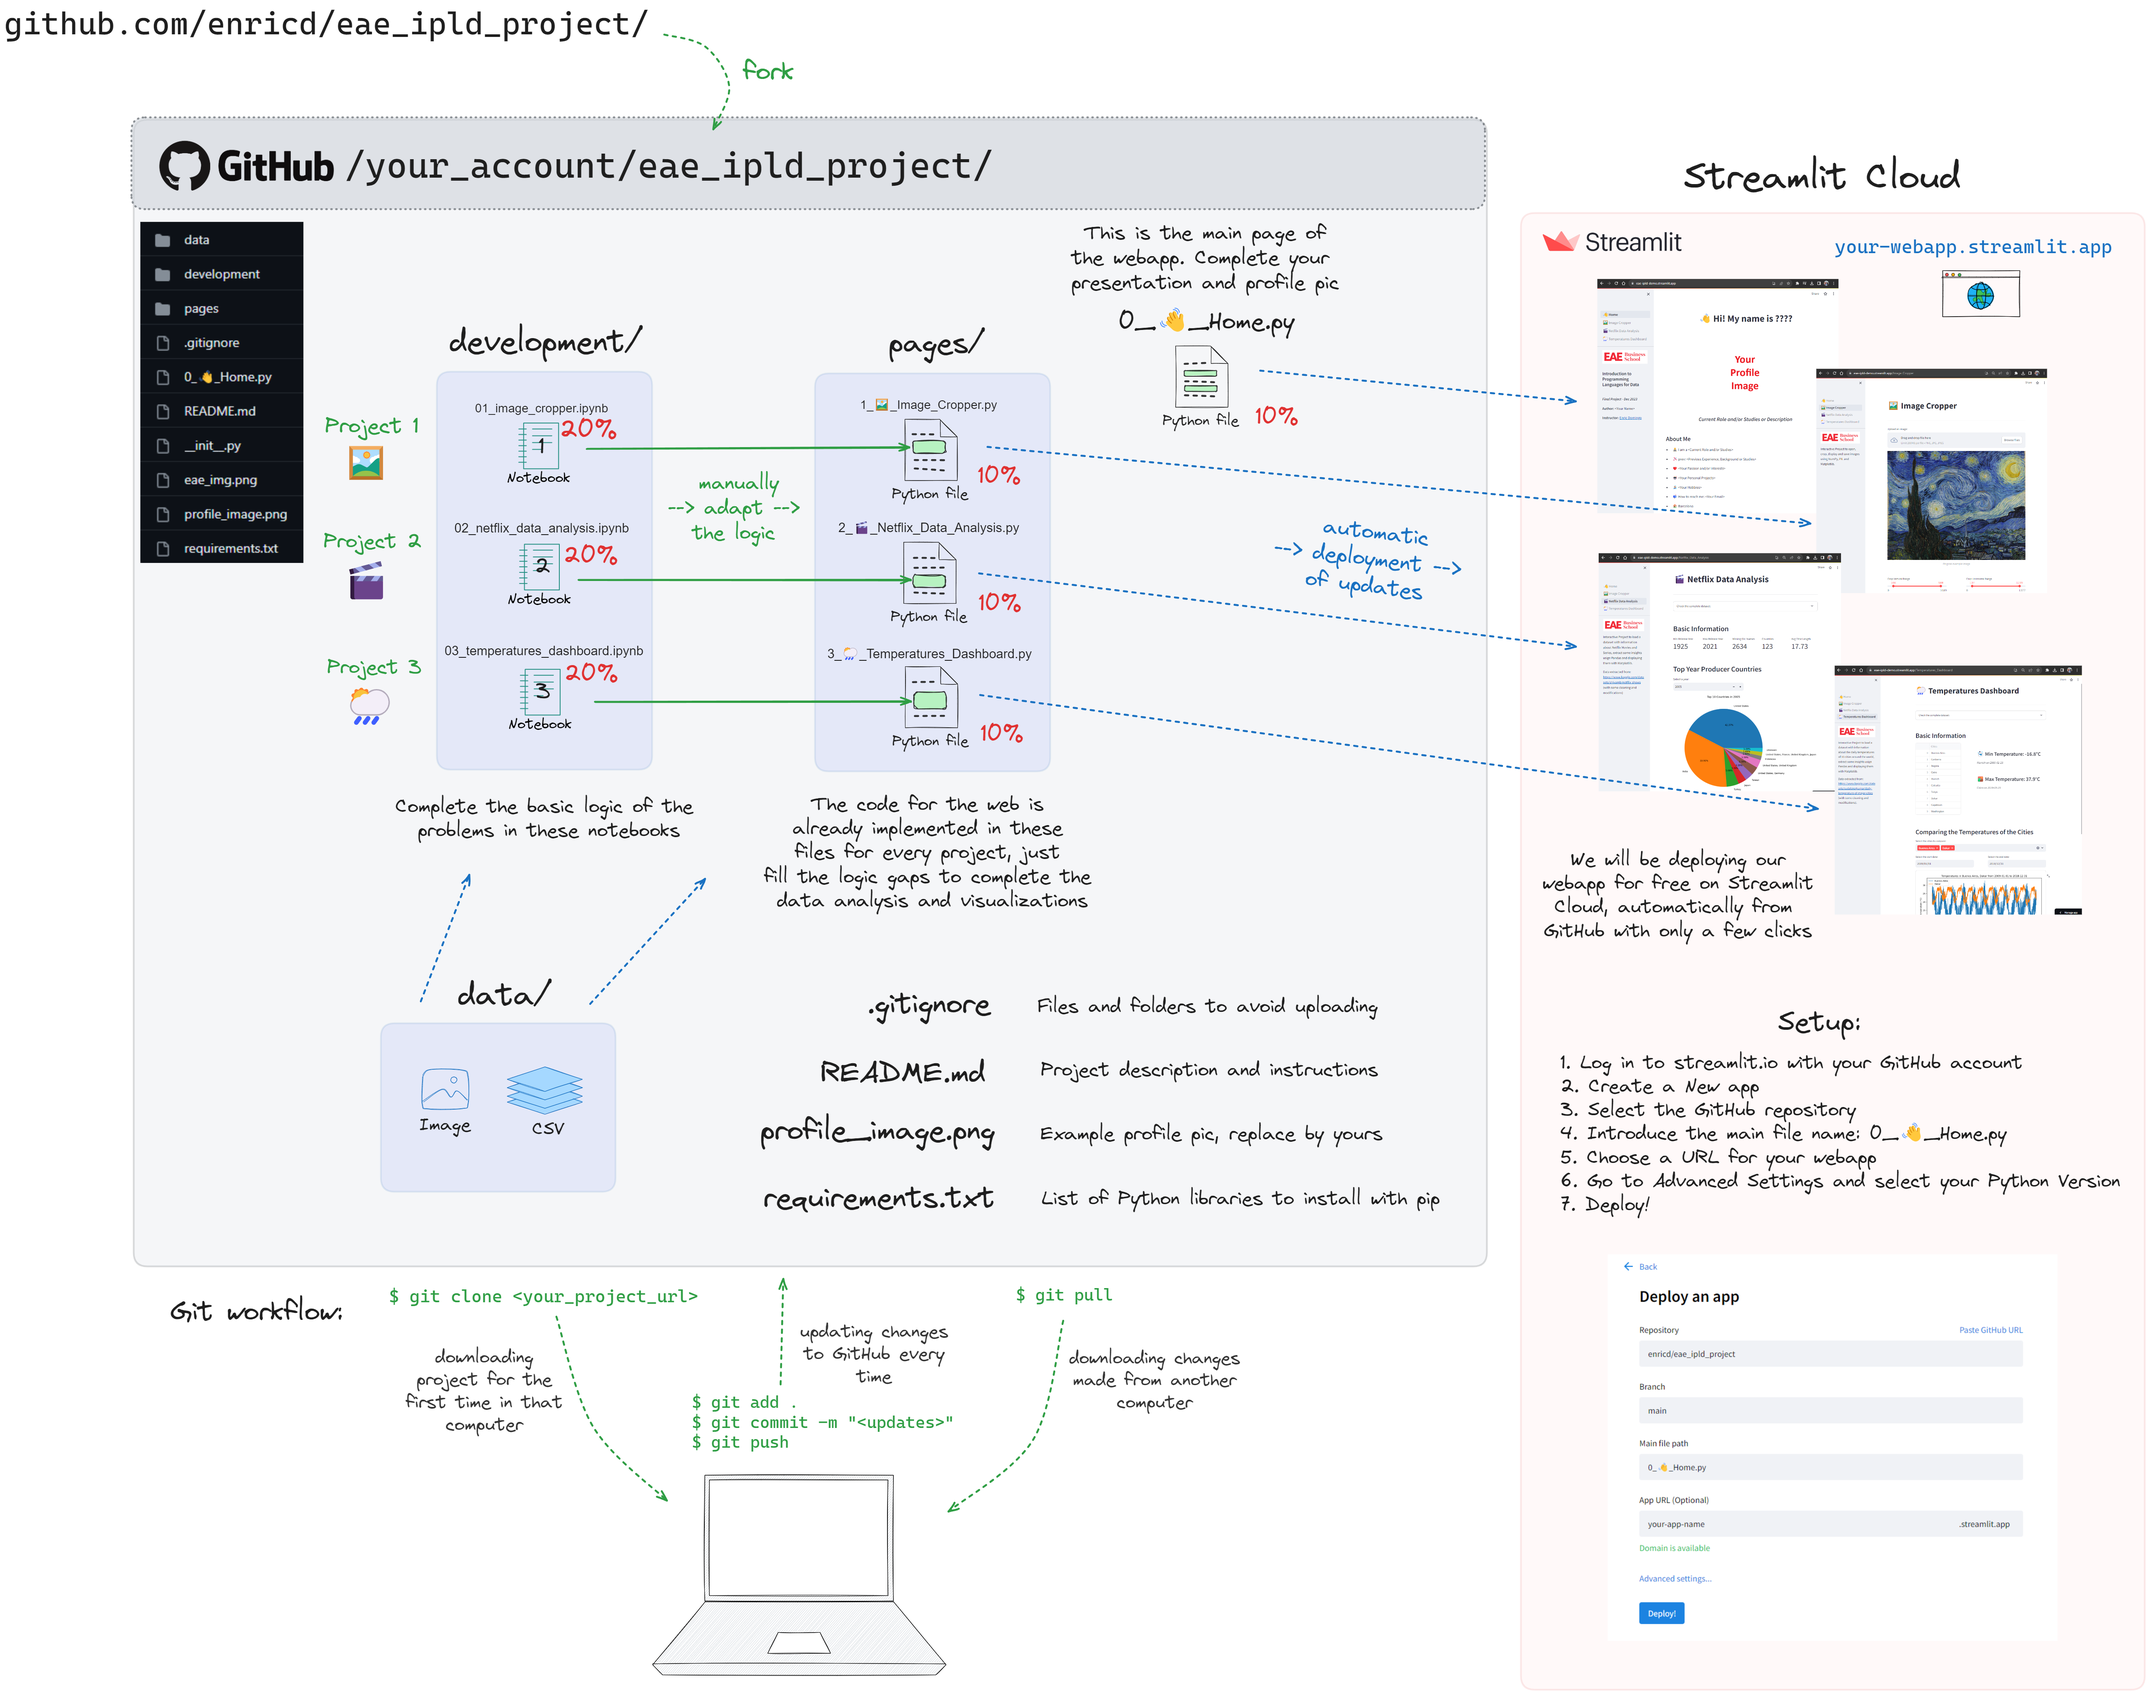
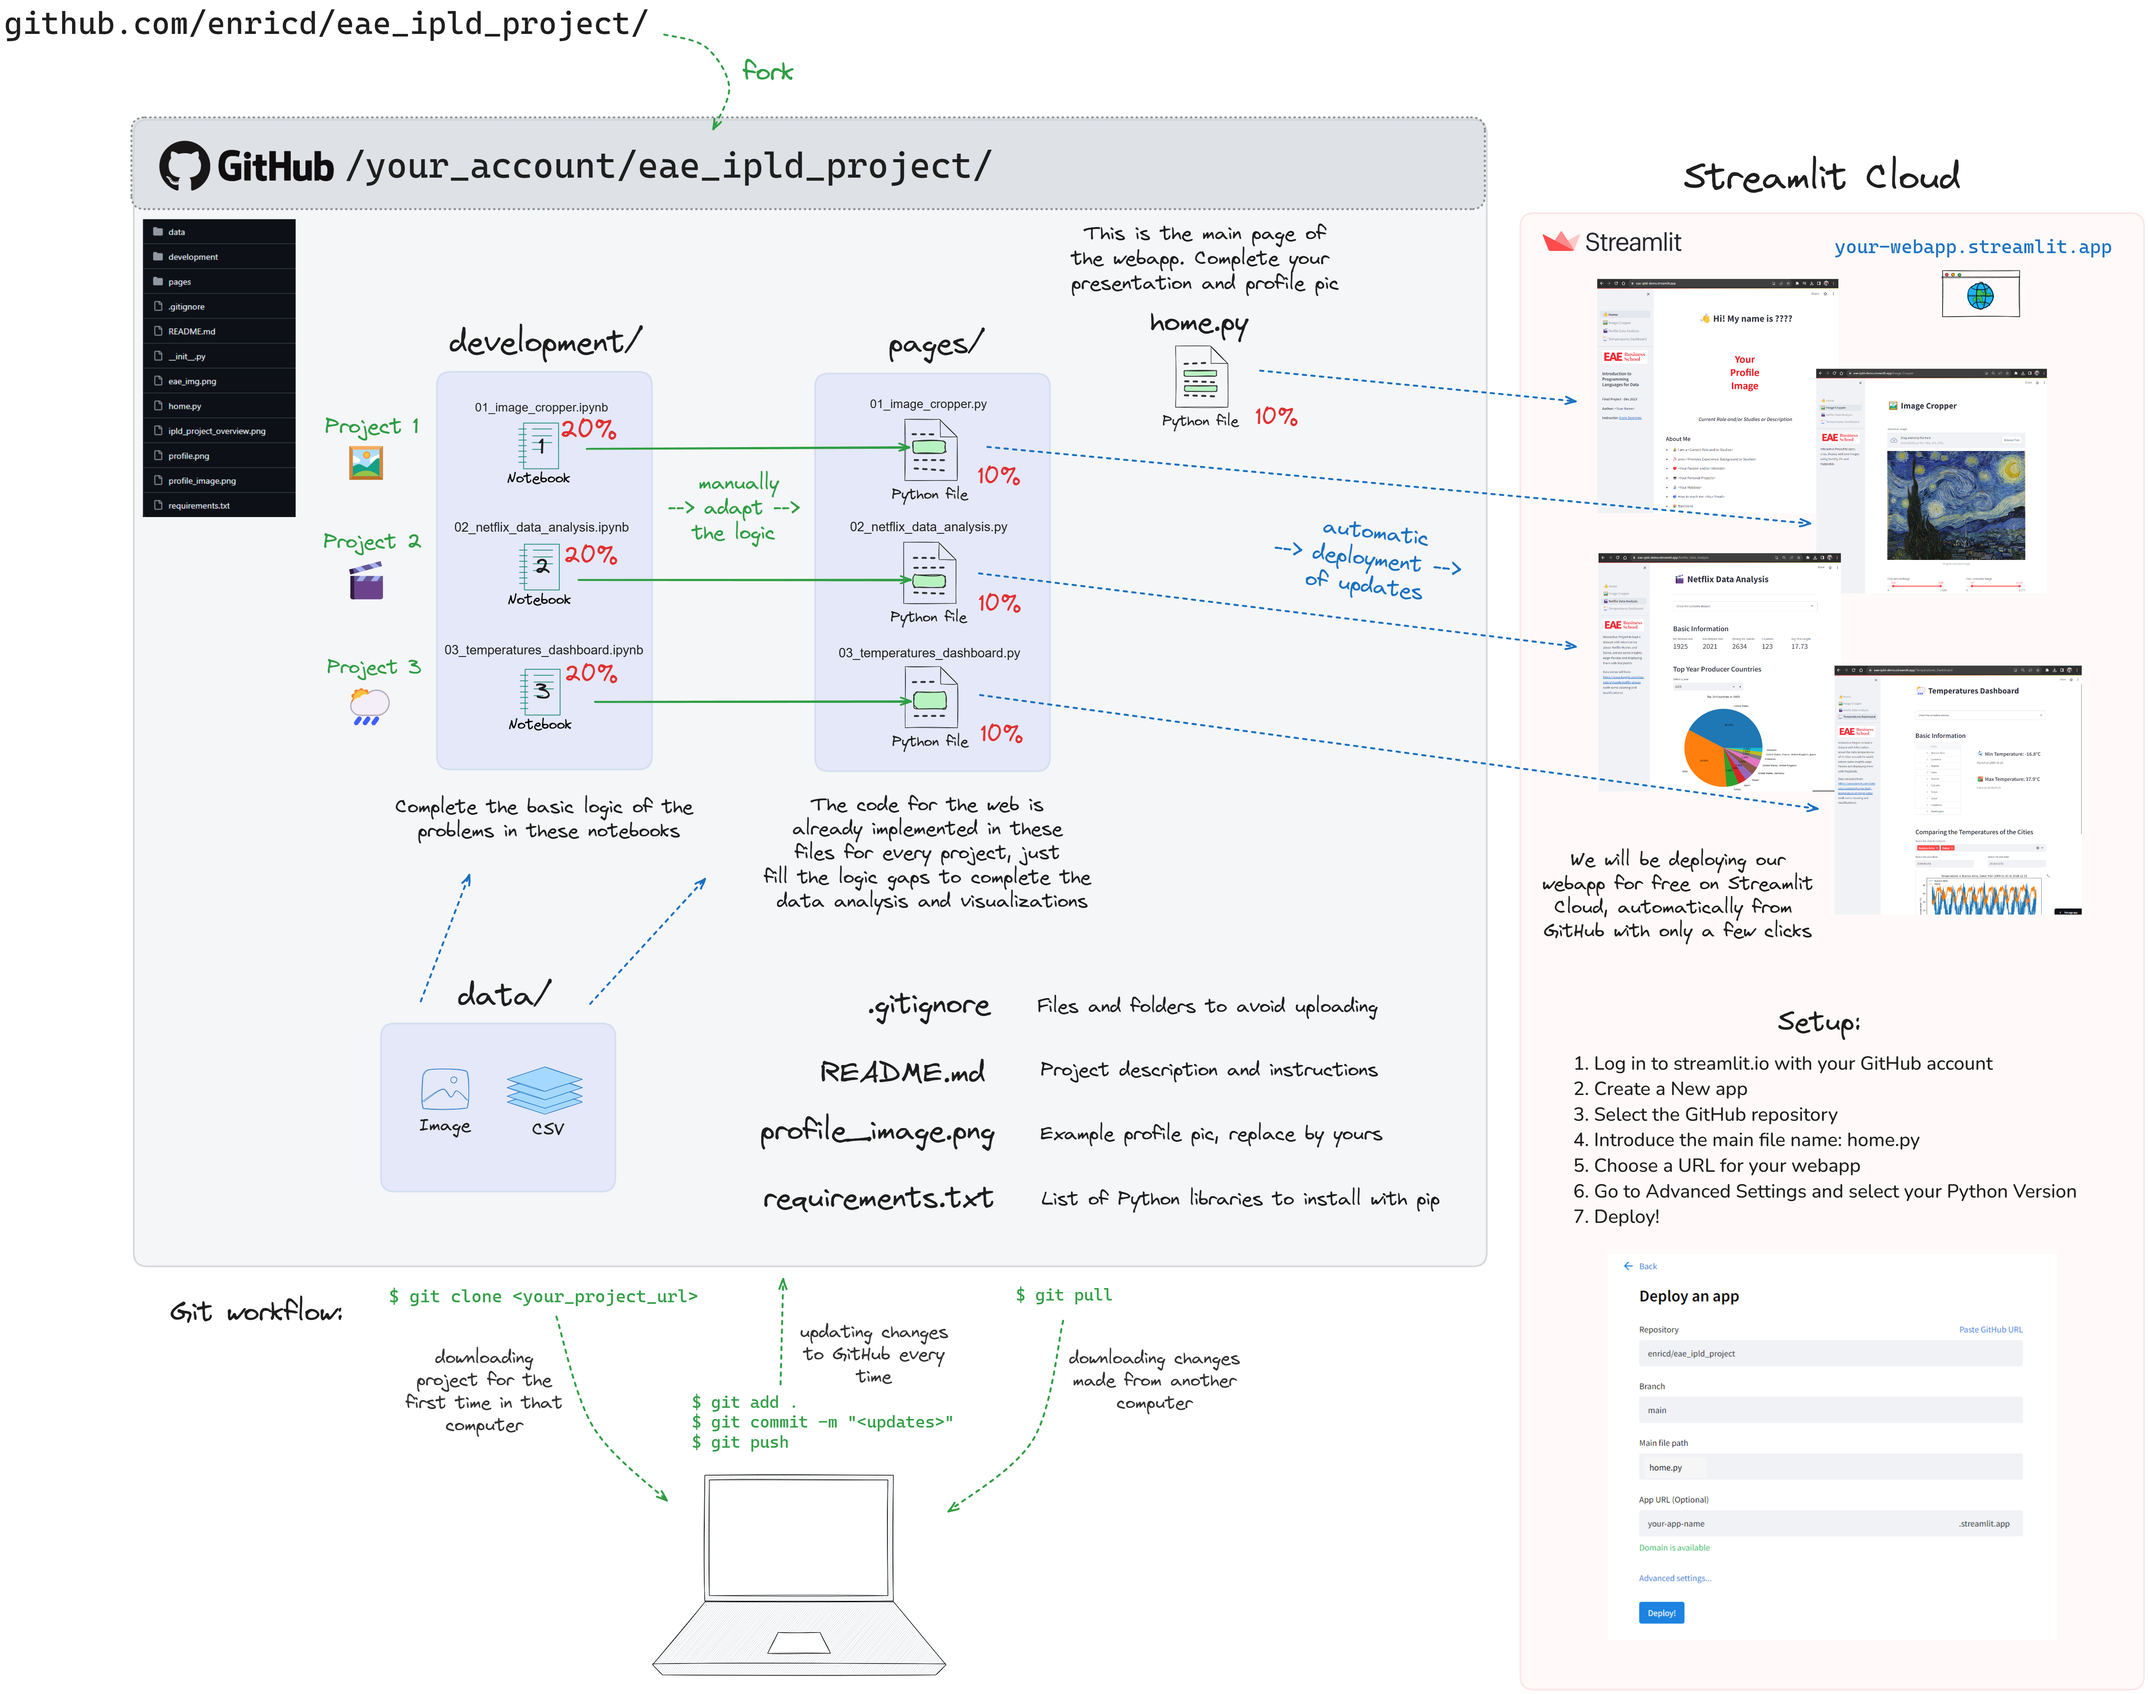
update image

diff --git a/README.md b/README.md
@@ -92,12 +92,12 @@ You will find the instructions to complete the Notebooks in the top cell and in 
 
 This section is about completing the main page of the web application, trying to run it locally (with a simple command) and deploying it to the Streamlit Cloud. This will count a `10%` of the final grade of the project.
 
-In this step you will have to open the Python script of the main page of the web application called `0_👋_Home.py` and modify it accoring to your information in order to present yourself. You will find a `# TODO` comment in every line or section you have to modify, and some more explanation of it if needed in the comments as well. You have to replace the example texts to the your own information and replace the default profile image with one of yourself, uploading it to the main repository folder and changing the name of the file in the code if needed.
+In this step you will have to open the Python script of the main page of the web application called `home.py` and modify it accoring to your information in order to present yourself. You will find a `# TODO` comment in every line or section you have to modify, and some more explanation of it if needed in the comments as well. You have to replace the example texts to the your own information and replace the default profile image with one of yourself, uploading it to the main repository folder and changing the name of the file in the code if needed.
 
 After finishing all the updates on the main page (or while you are going though it), you can run the web application locally in your computer to see how it looks like. You can do it by running the following command in the terminal from the project folder (remember to activate the virtual environment if you created it and to have all the dependencies installed):
 
 ```bash
-streamlit run 0_👋_Home.py
+streamlit run home.py
 ```
 
 This will open a new tab in your browser with the web application running locally. Otherwise, you can copy and paste this url `http://localhost:8501` to see it. You can stop the execution of the web application by pressing `Ctrl + C` in your terminal or closing the terminal tab/window.
@@ -123,9 +123,9 @@ Finally, you can deploy the web application to the Streamlit Cloud. To do so:
 2. Then click on the *New app* button. 
 3. Select your GitHub repository of the project.
 4. Leave the branch as main 
-5. Set the *Main file path* to `0_👋_Home.py`
+5. Set the *Main file path* to `home.py`
 6. Modify the app URL to something short and with your username (e.g. `enricd.streamlit.app`). You can only modify the first part of the URL.
-7. Optionally, go to Advanced Settings to modify the Python Version of the app, by default it uses the Python 3.9. for now. But you can put any up to the 3.12. in the online app.
+7. Optionally, go to Advanced Settings to modify the Python Version of the app, by default it uses the Python 3.12 for now. But you can put any up to the 3.13 in the online app.
 8. Finally you can click on the *Deploy* button and wait for the deployment to finish. This may take a few minutes. After that you will be able to see your web application online at the URL you specified before.
 
 Now, after every new code change that we `git add .` and `git commit -m "Some message"` locally, and then `git push` to the online repository, the web application will be automatically updated in the Streamlit Cloud with those new changes, so everyone will be able to see the changes online at the URL you specified before.
@@ -139,9 +139,9 @@ This last part will count a `30%` of the final grade of the project, every page 
 
 The 3 pages that you have to complete are:
 
-- `10%` - `pages/1_🖼_Image_Cropper.py`
-- `10%` - `pages/2_🎬_Netflix_Data_Analysis.py`
-- `10%` - `pages/3_🌦_Temperatures_Dashboard.py`
+- `10%` - `pages/01_image_cropper.py`
+- `10%` - `pages/02_netflix_data_analysis.py`
+- `10%` - `pages/03_temperatures_dashboard.py`
 
 
 ## 5. Submit the Project
